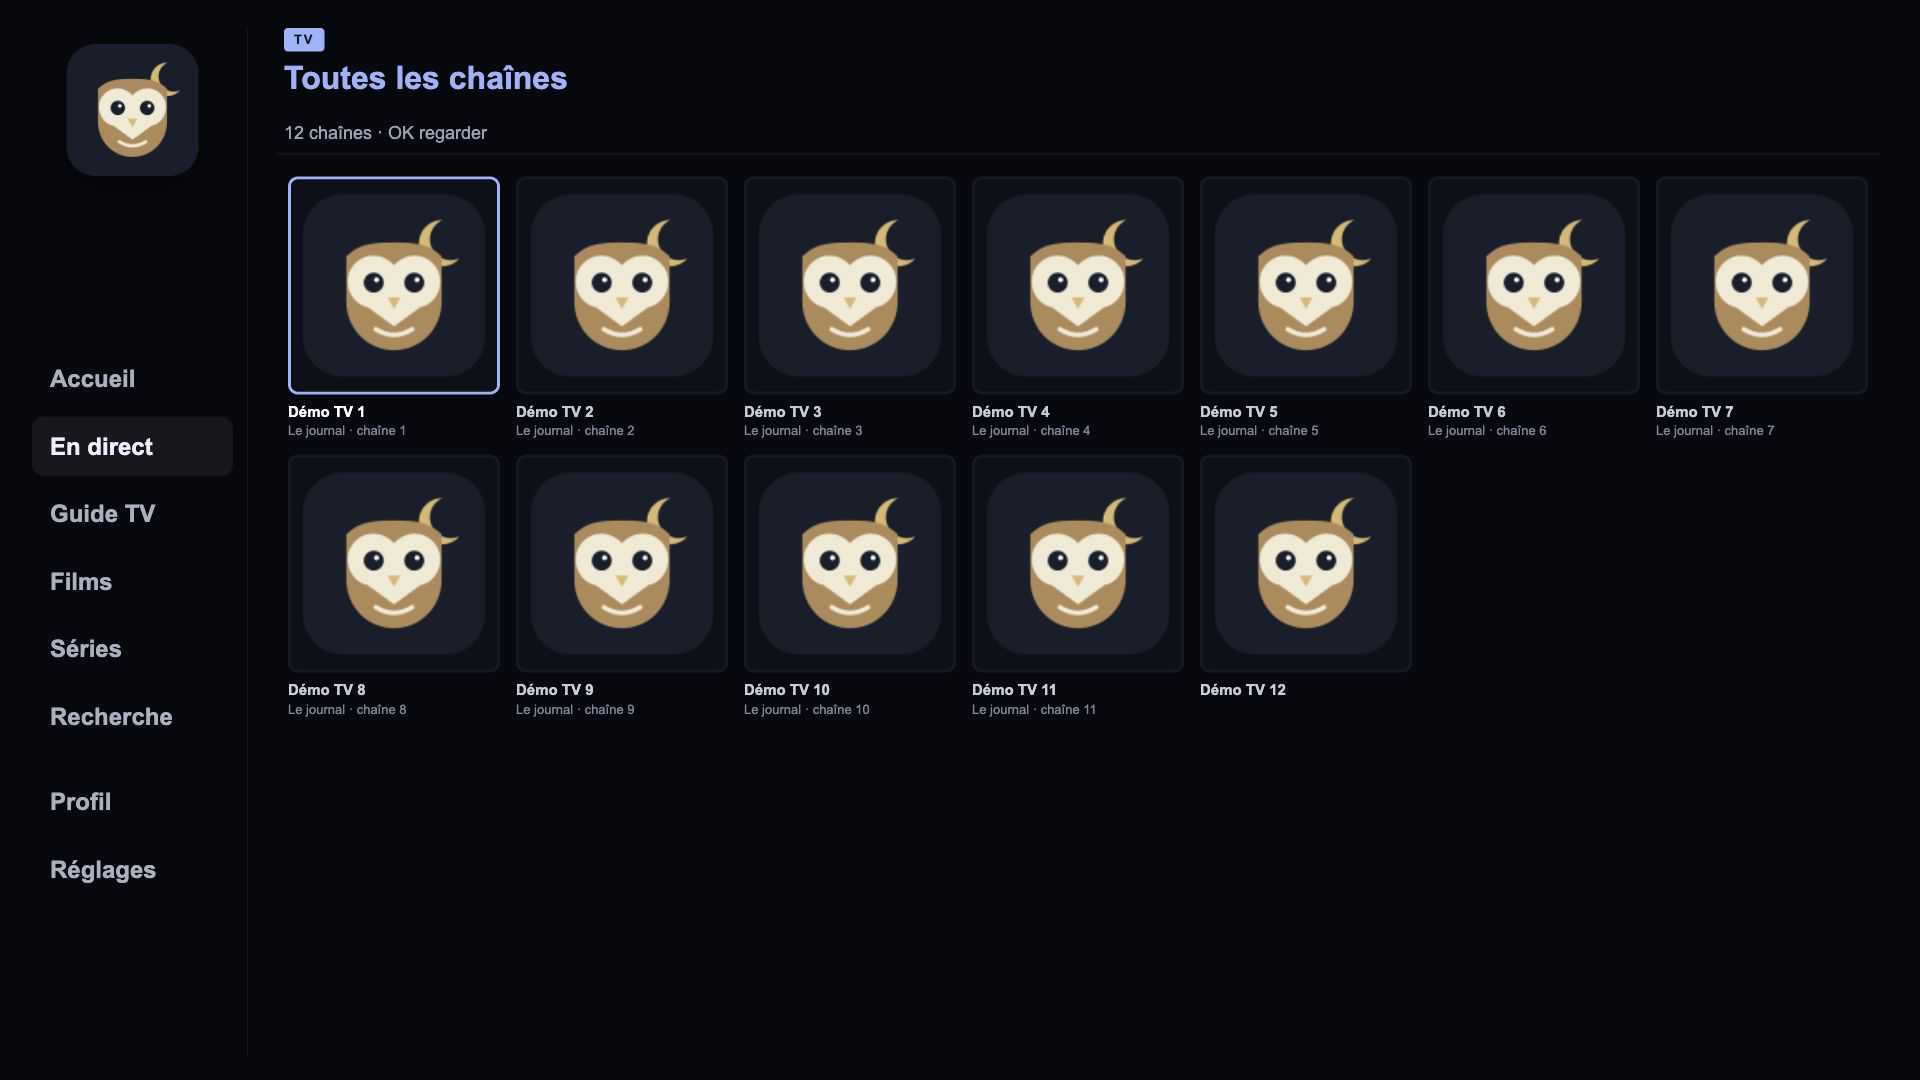
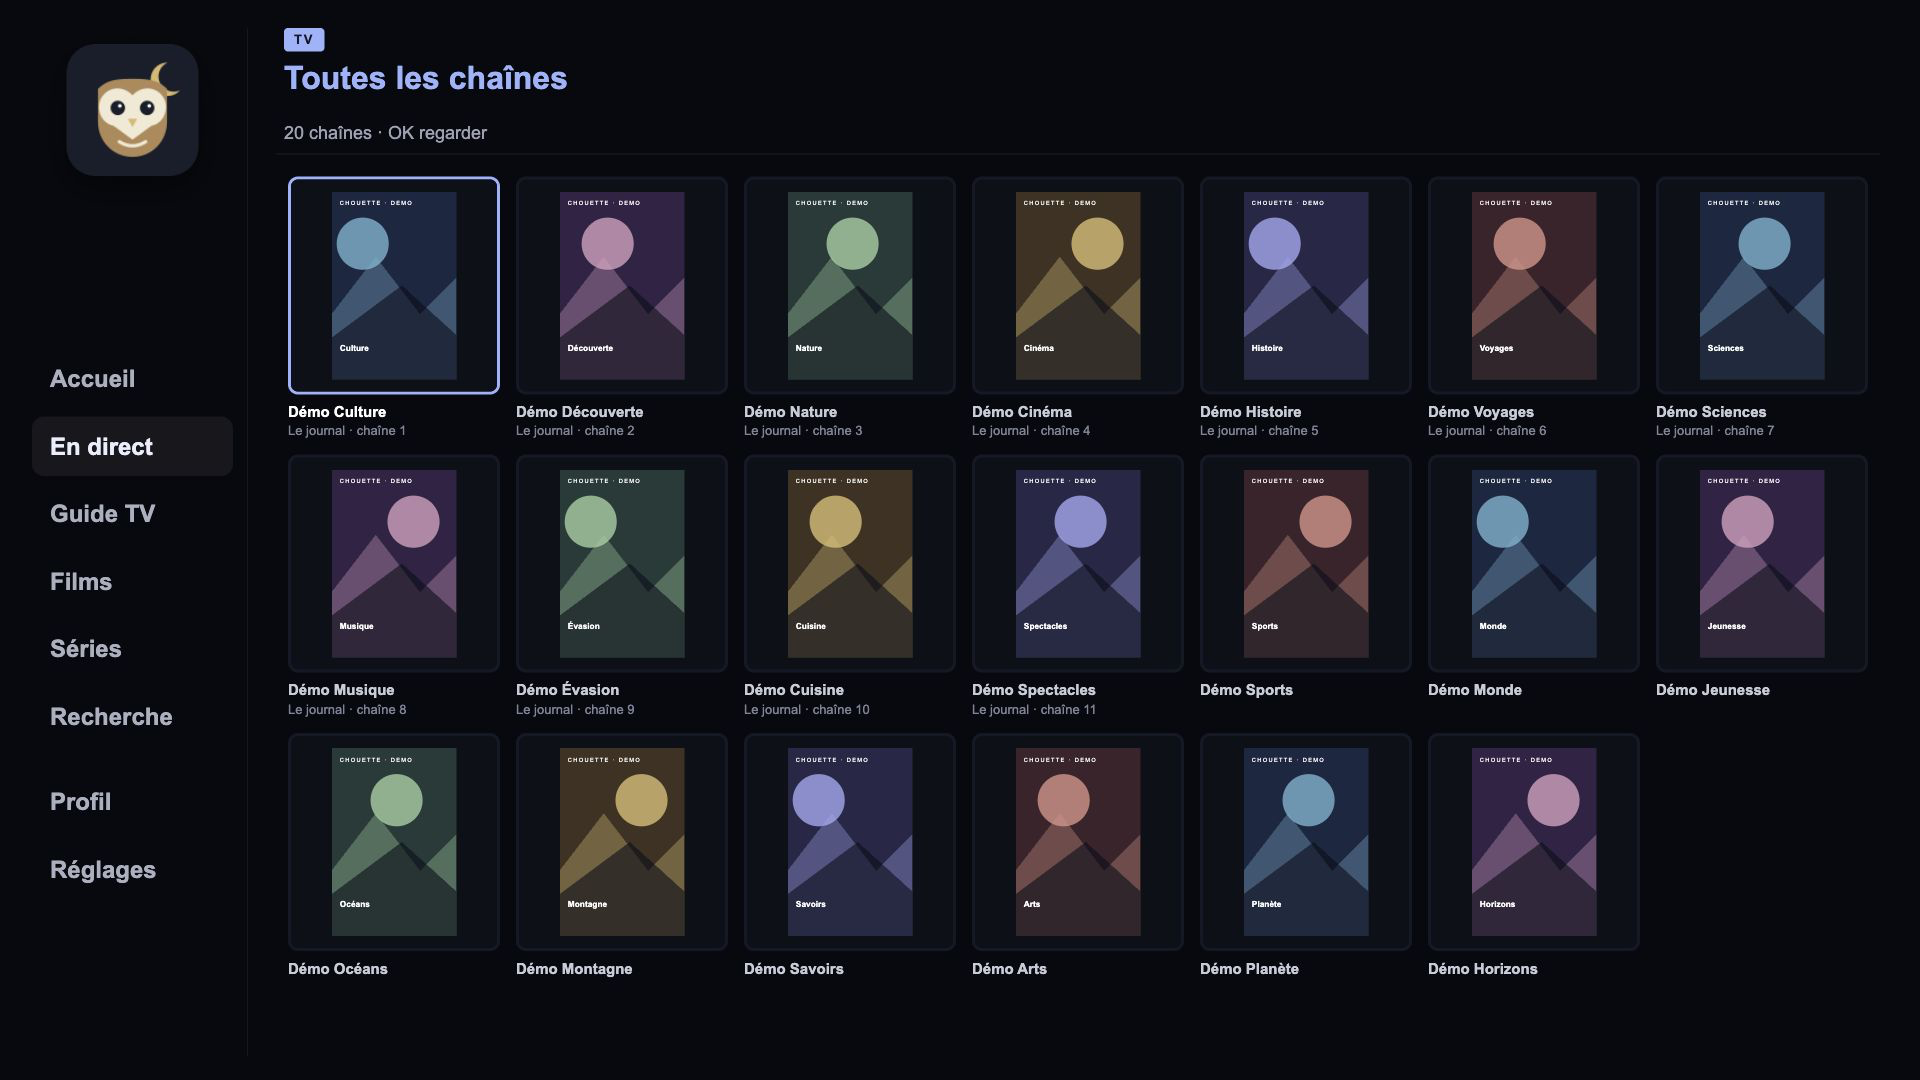
docs: showcase full channel, movie and series catalogues

diff --git a/tests/preview.js b/tests/preview.js
@@ -6,10 +6,30 @@ const fs = require('node:fs');
 const path = require('node:path');
 const root = path.resolve(__dirname, '../app');
 const stress = process.argv.includes('--stress');
+const gallery = process.argv.includes('--gallery');
+const galleryNames = {
+    live: ['Culture', 'Découverte', 'Nature', 'Cinéma', 'Histoire', 'Voyages', 'Sciences', 'Musique', 'Évasion', 'Cuisine', 'Spectacles', 'Sports', 'Monde', 'Jeunesse', 'Océans', 'Montagne', 'Savoirs', 'Arts', 'Planète', 'Horizons'],
+    vod: ['Les lumières du port', 'La dernière escale', 'Un été ailleurs', 'Au-delà des dunes', 'Le chemin des étoiles', 'La ville endormie', 'Les jours bleus', 'Une île en hiver', 'Le grand départ', 'Demain, la mer', 'Sous les aurores', 'Le jardin secret', 'La ligne des crêtes', 'Les passagers du vent', 'Une nuit à Lisbonne', 'Le temps des lucioles', 'La route du nord', 'Le phare oublié', 'Les heures dorées', 'Un monde plus loin', 'Le chant des vagues', 'Le refuge', 'Les portes du ciel', 'L’autre rive'],
+    series: ['Les veilleurs', 'Carnets de voyage', 'La vallée', 'Chroniques du large', 'À contretemps', 'Les nouveaux mondes', 'Quartier libre', 'L’atelier', 'Les chemins de traverse', 'Entre deux rives', 'Les saisons du ciel', 'Le bureau des rêves', 'En pleine nature', 'Les voix de la ville', 'Au fil de l’eau', 'L’expédition', 'La constellation', 'Les années lumière']
+};
+const escapeXml = value => String(value).replace(/[&<>"']/g, c => ({ '&': '&amp;', '<': '&lt;', '>': '&gt;', '"': '&quot;', "'": '&apos;' }[c]));
+function galleryArtwork(type, index) {
+    const colors = [['#112842', '#49b6d0'], ['#362047', '#e59ac1'], ['#173c38', '#8fd2a0'], ['#433122', '#e6bc6d'], ['#252849', '#99a8f2'], ['#42212b', '#ed8c87']][index % 6];
+    const title = galleryNames[type][index % galleryNames[type].length];
+    const words = title.split(' '), cut = Math.ceil(words.length / 2);
+    const lines = [words.slice(0, cut).join(' '), words.slice(cut).join(' ')];
+    return `<svg xmlns="http://www.w3.org/2000/svg" width="480" height="720" viewBox="0 0 480 720"><rect width="480" height="720" fill="${colors[0]}"/><circle cx="${120 + index % 4 * 65}" cy="200" r="100" fill="${colors[1]}" opacity=".8"/><path d="M0 470L170 250 340 470 480 330V720H0Z" fill="${colors[1]}" opacity=".35"/><path d="M0 560L270 360 480 550V720H0Z" fill="#070d19" opacity=".6"/><text x="32" y="53" fill="white" font-family="Arial,sans-serif" font-size="22" letter-spacing="5">CHOUETTE · DEMO</text><text x="32" y="610" fill="white" font-family="Arial,sans-serif" font-size="32" font-weight="bold">${escapeXml(lines[0])}</text><text x="32" y="652" fill="white" font-family="Arial,sans-serif" font-size="32" font-weight="bold">${escapeXml(lines[1])}</text></svg>`;
+}
 const server = http.createServer((req, res) => {
     const origin = `http://127.0.0.1:${server.address().port}`;
     const url = new URL(req.url, origin);
     res.setHeader('Cache-Control', 'no-store');
+    if (gallery && url.pathname.startsWith('/demo-art/')) {
+        const match = /^\/demo-art\/(live|vod|series)\/(\d+)\.svg$/.exec(url.pathname);
+        if (!match) { res.writeHead(404); res.end(); return; }
+        res.setHeader('Content-Type', 'image/svg+xml');
+        res.end(galleryArtwork(match[1], Number(match[2]))); return;
+    }
     if (url.pathname === '/$WEBAPIS/webapis/webapis.js') {
         res.setHeader('Content-Type', 'application/javascript');
         res.end('/* Desktop Firefox uses HTML5 playback. */');
@@ -32,6 +52,16 @@ const server = http.createServer((req, res) => {
                 episodes: { '1': Array.from({ length: stress ? 300 : 3 }, (_, i) => i + 1).map(n => ({ id: String(30 + n), title: 'Démo Épisode ' + n, episode_num: n, season: 1, container_extension: 'mp4' })),
                     '2': [{ id: '41', title: 'Le retour', episode_num: 1, season: 2, container_extension: 'mp4' }] } }
         };
+        if (gallery && !stress) {
+            for (const [type, action, category] of [['live', 'get_live_streams', 'tv'], ['vod', 'get_vod_streams', 'films'], ['series', 'get_series', 'series']]) {
+                responses[action] = galleryNames[type].map((name, i) => ({
+                    [type === 'series' ? 'series_id' : 'stream_id']: i + 1,
+                    name: (type === 'live' ? 'Démo ' : '') + name, category_id: category,
+                    stream_icon: origin + '/demo-art/' + type + '/' + i + '.svg',
+                    cover: origin + '/demo-art/' + type + '/' + i + '.svg', container_extension: 'mp4'
+                }));
+            }
+        }
         res.setHeader('Content-Type', 'application/json');
         if (stress) {
             responses.get_live_streams.push({ stream_id: 10001, name: '▼--- FRANCE ---▼', category_id: 'tv' });

diff --git a/tools/prepare-public.js b/tools/prepare-public.js
@@ -10,8 +10,8 @@ const FILES = [
     'CONTRIBUTING.md', 'SECURITY.md', 'branding/public.json', 'branding/custom.example.json',
     'branding/chouette/logo.svg', 'branding/chouette/icon.png', 'branding/chouette/icon-117.png', 'branding/chouette/icon-512.png',
     'docs/BUILDING.md', 'docs/PUBLICATION.md', 'docs/PRIVACY.md', 'docs/INSTALLATION.md',
-    'docs/screenshots/README.md', 'docs/screenshots/home.png', 'docs/screenshots/live-tv.png',
-    'docs/screenshots/tv-guide.png', 'docs/screenshots/search.png', 'docs/screenshots/movie-details.png',
+    'docs/screenshots/README.md', 'docs/screenshots/live-tv.png', 'docs/screenshots/movies.png',
+    'docs/screenshots/tv-guide.png', 'docs/screenshots/series.png',
     'store/disclaimer.md', 'store/listing.fr.md',
     'tools/README.md', 'tools/build-bundle.sh', 'tools/check.sh', 'tools/build-variant.js',
     'tools/privacy-audit.js', 'tools/prepare-public.js', 'tools/make-channels.js', 'tools/xmltv-to-json.js',

diff --git a/README.md b/README.md
@@ -6,7 +6,7 @@ Chouette TV includes **no channels, playlists, subscriptions or source accounts*
 
 [Install on your TV with VS Code](docs/INSTALLATION.md) · [Screenshots](#screenshots) · [Build and customize](#development-and-customization)
 
-![Chouette TV programme guide with fictional channels and programmes](docs/screenshots/tv-guide.png)
+![Chouette TV movie catalogue with fictional films and demonstration artwork](docs/screenshots/movies.png)
 
 ## Features
 
@@ -25,33 +25,22 @@ The repository contains source code. The build tool prepares an unsigned Tizen p
 
 ## Screenshots
 
-Browser captures of the actual interface at 1920 × 1080, using the local demonstration server. All channels, programmes and film details are fictional. The owl is placeholder artwork; no provider catalogue or real video is included.
+Browser captures of the actual interface at 1920 × 1080, using `node tests/preview.js --gallery`. The demo contains 20 channels, 24 films and 18 series, with fictional titles and original geometric placeholder artwork. No provider catalogue, third-party posters or real video is included. Grids show the visible portion of each catalogue; use the remote to browse further.
 
-<details>
-<summary>Home — recently added movies and series</summary>
-
-![Home with demo movies and series](docs/screenshots/home.png)
-
-</details>
-
-<details>
-<summary>Live TV — channels and current programmes</summary>
+**All channels** — the live catalogue with current programme information.
 
 ![Live TV catalogue with fictional channels](docs/screenshots/live-tv.png)
 
-</details>
+**All movies** — shown at the top of this page.
+
+**All series** — the series catalogue, with remote-control focus.
+
+![Series catalogue with fictional titles and demonstration artwork](docs/screenshots/series.png)
 
 <details>
-<summary>Search — live TV, series and movies</summary>
+<summary>TV guide — programme timeline and filters</summary>
 
-![Search results across the demo catalogues](docs/screenshots/search.png)
-
-</details>
-
-<details>
-<summary>Movie details — synopsis and playback action</summary>
-
-![Movie details with fictional metadata](docs/screenshots/movie-details.png)
+![TV guide with fictional channels and programmes](docs/screenshots/tv-guide.png)
 
 </details>
 

diff --git a/docs/screenshots/README.md b/docs/screenshots/README.md
@@ -2,12 +2,11 @@
 
 Captured from the real Chouette TV interface in a desktop browser at 1920 × 1080 on 15 October 2026. The interface remains in French. Images demonstrate navigation, not physical-TV playback validation.
 
-All data comes from `node tests/preview.js`: fictional channels, programmes, movies and series; the project's owl is placeholder artwork. No private IPTV source, real account, personal photograph or third-party film poster is used.
+Catalogue data comes from `node tests/preview.js --gallery`: 20 fictional channels, 24 films and 18 series, with original geometric SVG artwork generated locally by the fixture server. The guide uses the standard demo programmes. No private IPTV source, real account, personal photograph or third-party film poster is used.
 
-- `home.png`: recently added content.
 - `live-tv.png`: channel catalogue and current programmes.
+- `movies.png`: all-movies catalogue (first visible page).
+- `series.png`: all-series catalogue (first visible page).
 - `tv-guide.png`: programme timeline and navigation.
-- `search.png`: results across content types.
-- `movie-details.png`: fictional metadata and playback action.
 
 To refresh, run the demo server in a fresh browser session, configure its printed local URL with `demo` / `demo`, and navigate the actual interface. Inspect every image before committing. Exclude account/settings screens, source URLs, browser chrome and developer logs. Save PNGs without auxiliary metadata.

diff --git a/tools/README.md b/tools/README.md
@@ -32,6 +32,9 @@ Voir [BUILDING](../docs/BUILDING.md) et
 affichée comme serveur Xtream, avec `demo` / `demo`. La démonstration ne contacte
 pas de fournisseur et ne fournit pas de flux vidéo.
 
+`node tests/preview.js --gallery` remplit les grilles de 20 chaînes, 24 films et
+18 séries fictifs avec des affiches géométriques locales pour les captures.
+
 `node tests/browser-smoke.js` est facultatif : il nécessite Playwright et son
 binaire Firefox installés séparément. Il utilise un profil neuf, bloque les
 requêtes externes et contrôle configuration, navigation et rechargement.
